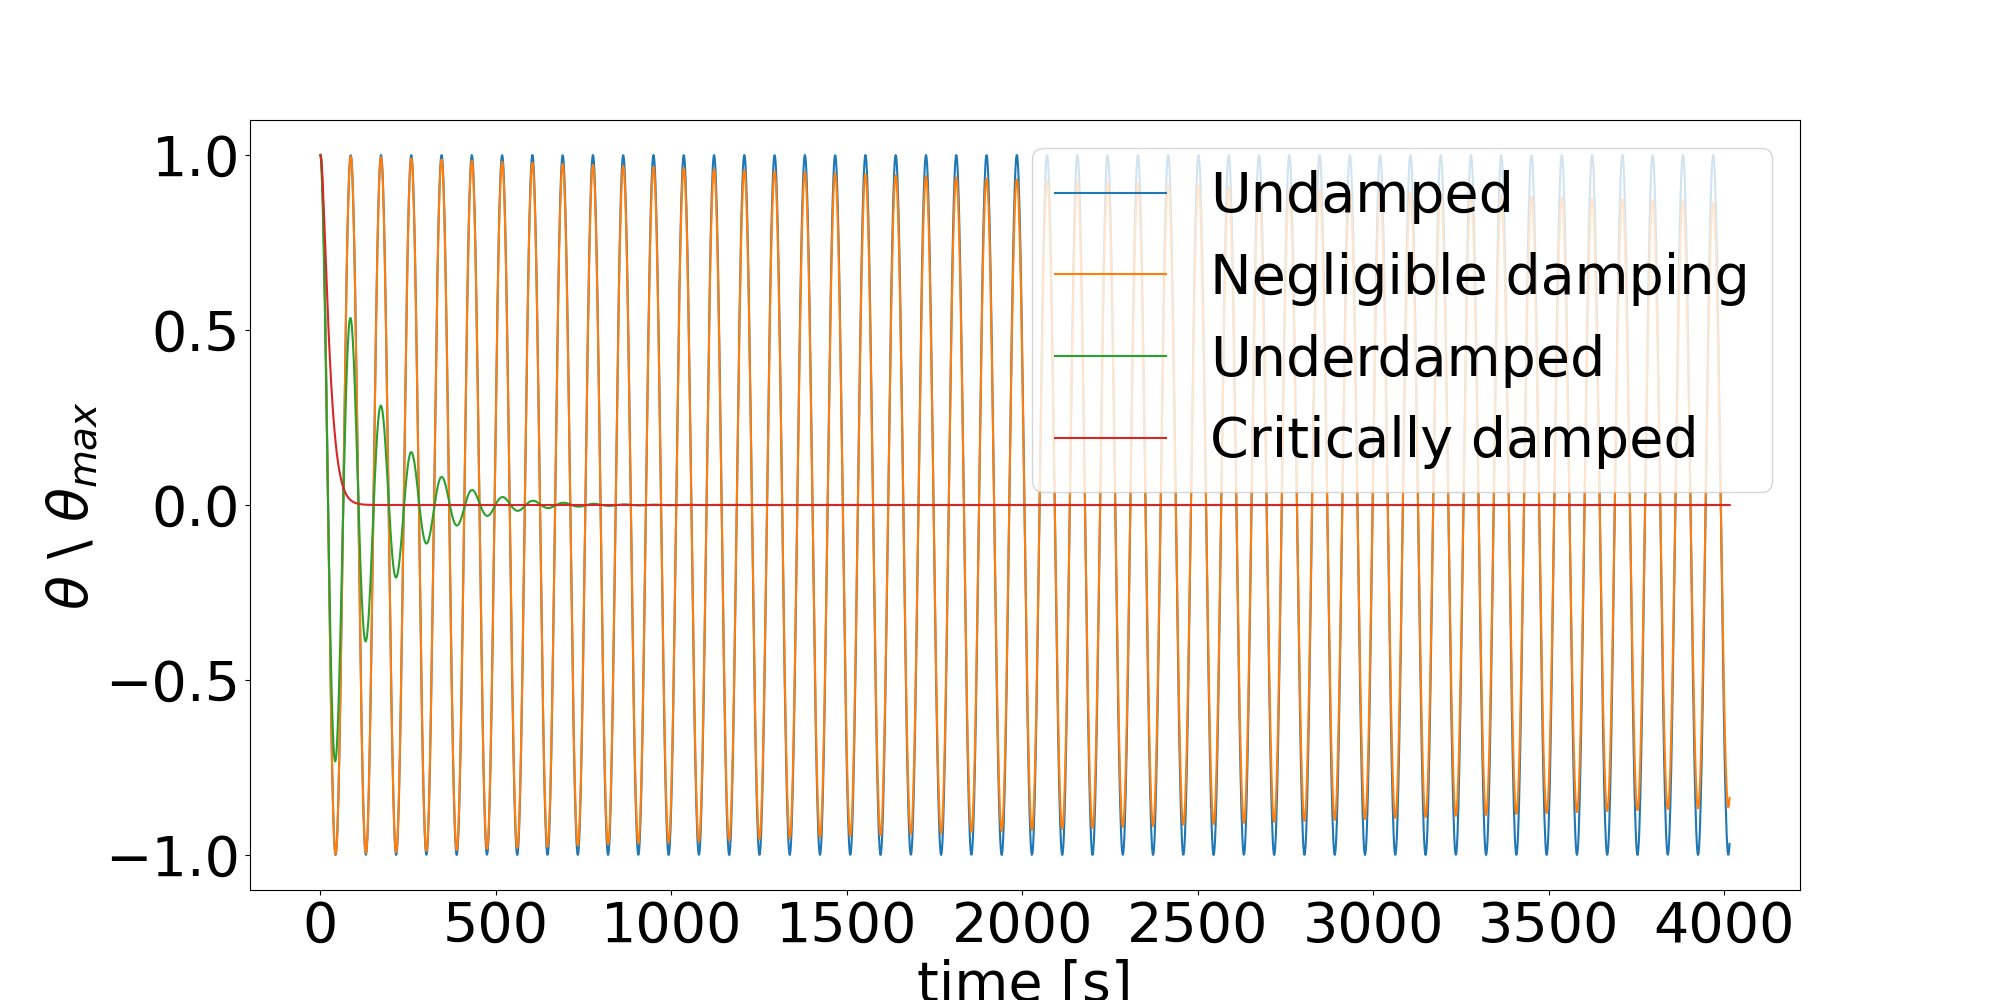
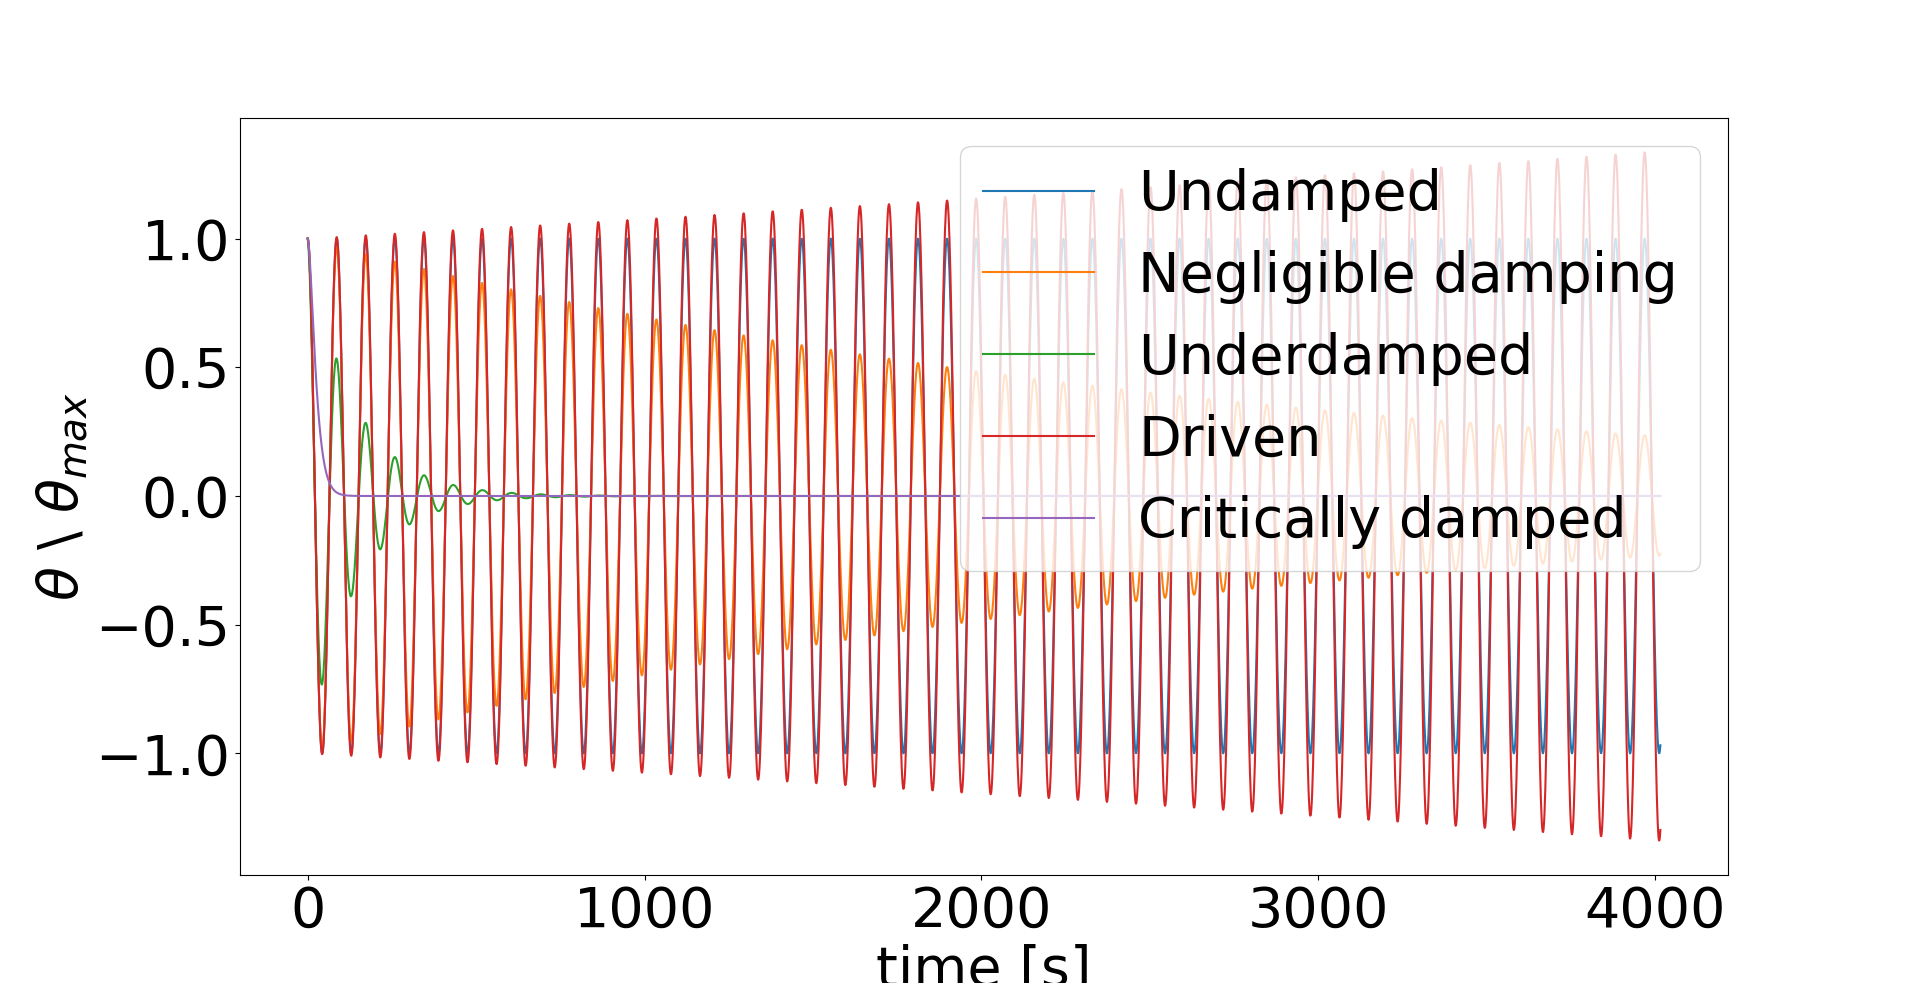
auto

diff --git a/python/damp.py b/python/damp.py
@@ -2,7 +2,7 @@
 import numpy as np 
 import matplotlib.pyplot as plt
 plt.figure(figsize=(20,10))
-
+plt.close('all')
 def fonts_define(xtitle,ytitle,lgd,font=25):
     plt.xlabel(xtitle, fontsize=font)
     plt.ylabel(ytitle, fontsize=font)
@@ -12,8 +12,8 @@ def fonts_define(xtitle,ytitle,lgd,font=25):
 
 
 
-time = 400 #s
-t=np.linspace(0,time,3000);
+time = 4015 #s
+global t; t=np.linspace(0,time,3000);
 
 kappa = 2.5839284154826904e-06
 I = 0.000487121
@@ -22,7 +22,7 @@ print (np.pi*2/omega_0)
 
 theta_max = 1
 vo=0; 
-x0=theta_max
+global x0; x0=theta_max
 
 # undamped
 xi = 0.0
@@ -34,14 +34,32 @@ plt.plot(t,xt)
 
 
 # underdamped
-xi = 0.1
-tao = 1/(xi*omega_0)
+def underdamped(xi = 0.1):
+    if xi != 0:
+        tao = 1/(xi*omega_0)
+        t_exp = -t/tao
+    else:
+        t_exp = t*0
+    
+    a=x0;
+    omega = omega_0*np.sqrt(1-xi**2)
+    xt=a*(np.exp( t_exp  ))*np.cos(omega*t);
+    return xt
 
-a=x0;
-omega = omega_0*np.sqrt(1-xi**2)
-xt=a*(np.exp(-t/tao))*np.cos(omega*t);
+
+# undamped
+xt = underdamped(xi = 0.0)
 plt.plot(t,xt)
 
+# highly underdamped
+xt = underdamped(xi = 0.005)
+plt.plot(t,xt)
+#  underdamped
+xt = underdamped(xi = 0.1)
+plt.plot(t,xt)
+# driven pid
+xt = underdamped(xi = -0.001)
+plt.plot(t,xt)
 
 
 # critical
@@ -56,21 +74,21 @@ plt.plot(t,xt)
 
 
 
-# overdamped
-xi = 1.5
-tao = 1/(xi*omega_0)
-xi_1 = xi/np.sqrt(xi**2-1)
-a = (1-xi_1)
-a_exp = 1+1/xi_1
-b = (1+xi_1)
-b_exp = 1-1/xi_1
+# # overdamped
+# xi = 1.5
+# tao = 1/(xi*omega_0)
+# xi_1 = xi/np.sqrt(xi**2-1)
+# a = (1-xi_1)
+# a_exp = 1+1/xi_1
+# b = (1+xi_1)
+# b_exp = 1-1/xi_1
 
-xt=x0/2*(a*np.exp(-t/tao*a_exp)+b*np.exp(-t/tao*b_exp))
-plt.plot(t,xt)
+# xt=x0/2*(a*np.exp(-t/tao*a_exp)+b*np.exp(-t/tao*b_exp))
+# plt.plot(t,xt)
 
 
 
-fonts_define('time [s]',r'$\theta$ \ $\theta_{max}$',['Undamped','Underdamped','Critically damped','Overdamped'],font=40)
+fonts_define('time [s]',r'$\theta$ \ $\theta_{max}$',['Undamped','Negligible damping','Underdamped','Driven','Critically damped'],font=40)
 
-# plt.savefig('damp.png')
+# plt.savefig('underdamp.png')
 # 
